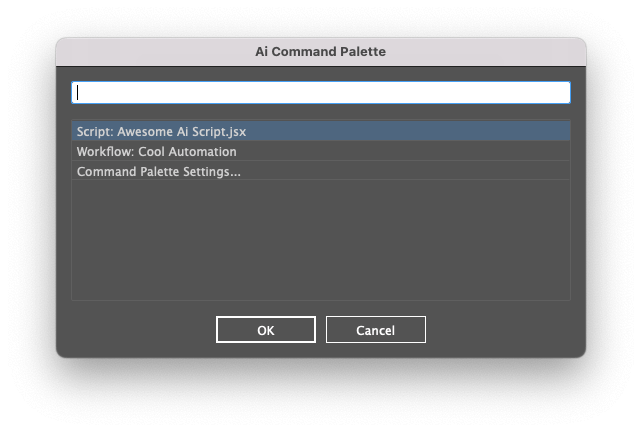
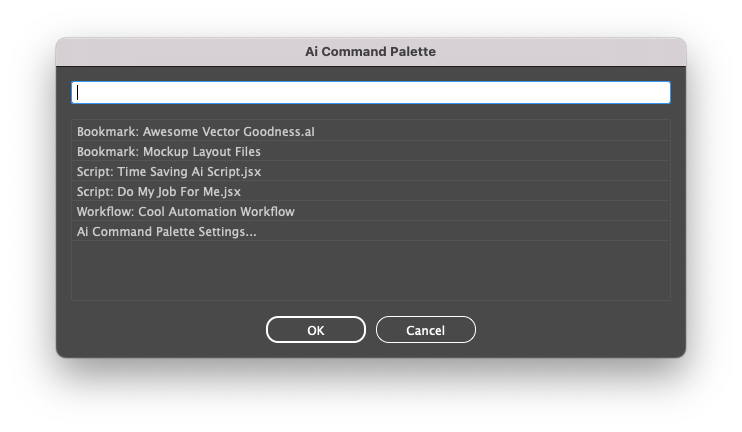
software page updates

diff --git a/content/pages/software.md b/content/pages/software.md
@@ -2,7 +2,7 @@
 title: Software
 ---
 
-I'm a designer by trade but started to learn development in 2020 and I'm currently developing in Python, [ExtendScript for Adobe](#extendscript), and HTML/CSS/JavaScript. I'm sharing some of my projects here in hope that you may find them useful.
+I'm a designer by trade but started to learn development in 2020 and I'm currently developing in [Python](#python), [ExtendScript for Adobe](#extendscript), and HTML/CSS/JavaScript. I'm sharing some of my projects here in hope that you may find them useful.
 
 <<< .callout .callout-warning
 Most of the things I make are free to download but if you would like to support me that would be awesome and greatly appreciated! 🙏
@@ -20,26 +20,37 @@ Most of the things I make are free to download but if you would like to support 
 
 🐞 **Find a bug?** Please submit an issue on [GitHub](https://github.com/joshbduncan){: target="_blank" }.
 
+## Python 🐍 {: #python }
+
+### Word Search Generator ([GitHub](https://github.com/joshbduncan/word-search-generator){: target="_blank" })
+
+Word-Search-Generator is a Python module for generating fun [Word Search Puzzles](https://en.wikipedia.org/wiki/Word_search).
+
+Like most of my programming endeavors, Word-Search-Generator was born out of necessity. I needed an easy way to generate a bunch of word search puzzles for kid's food menus.
+
+🤦♂ Does the world need this? Probably not.  
+⏰ Did I spend way too much time on it? Yep!  
+✅ Does it come in handy? Heck yeah!  
+👍 Did I have fun making it? Absofreakinglutly!
+
+![Ai Command Palette](/static/images/word-search-generator.gif){: loading="lazy" }
+
 ## Adobe Scripts (ExtendScript) {: #extendscript }
 
 As a longtime user of Adobe products I often find the need for extended functionality. Here are some of the solutions I have developed.
 
-### Ai Command Palette
+### Ai Command Palette ([GitHub](https://github.com/joshbduncan/AiCommandPalette){: target="_blank" })
 
-Boost your Adobe Illustrator efficiency with quick access to **most menu commands** and **tools**, all of your **actions**, and any **scripts** right from your keyboard.
+Boost your Adobe Illustrator efficiency with quick access to **most Menu Commands** and **Tools**, all of your **Actions**, **Bookmarked** file or folder, and any **Scripts** right from your keyboard.
 
 And, with custom **Workflows**, you can combine multiple commands, actions, and scripts to get things done in your own way. Replace repetitive tasks with workflows and boost your productivity.
 
-[Adobe Illustrator Command Palette - GitHub](https://github.com/joshbduncan/AiCommandPalette){: target="_blank" }
-
 ![Ai Command Palette](/static/images/ai-command-palette.png){: loading="lazy" }
 
-### Ai Match Objects
+### Ai Match Objects ([GitHub](https://github.com/joshbduncan/adobe-scripts#matchobjectsjsx){: target="_blank" })
 
 Match one or more objects to another by position, size, rotation, layer, and or alignment.
 
 **My most used script by far!**
-
-[Adobe Illustrator Match Objects - GitHub](https://github.com/joshbduncan/adobe-scripts#matchobjectsjsx){: target="_blank" }
 
 ![Ai Match Objects](/static/images/ai-match-objects.png){: loading="lazy" }
